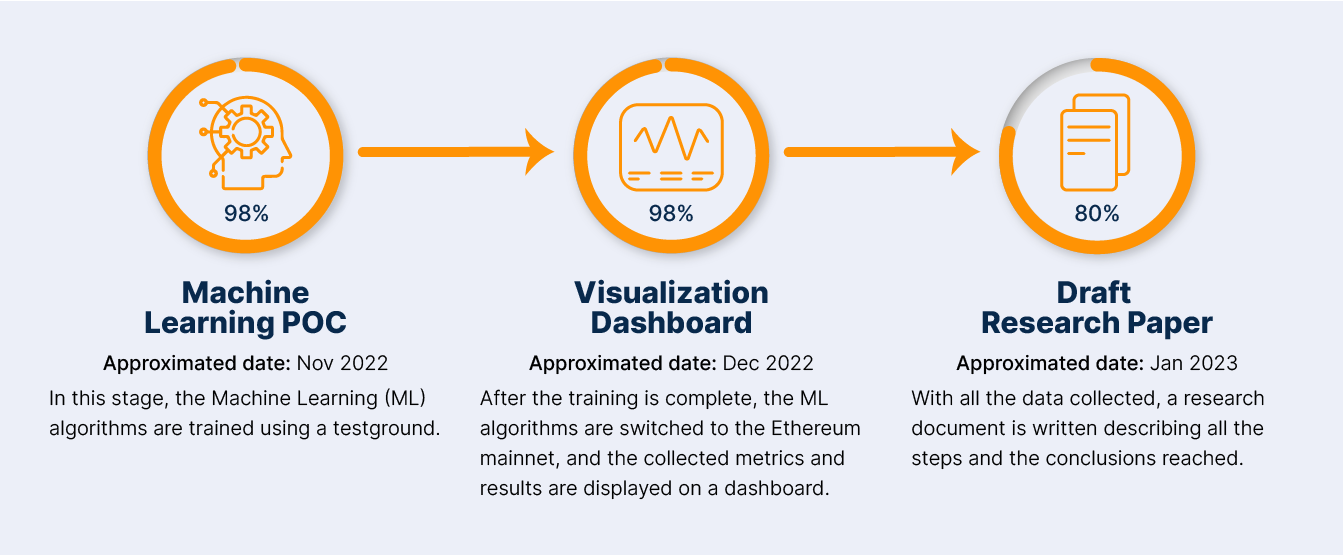
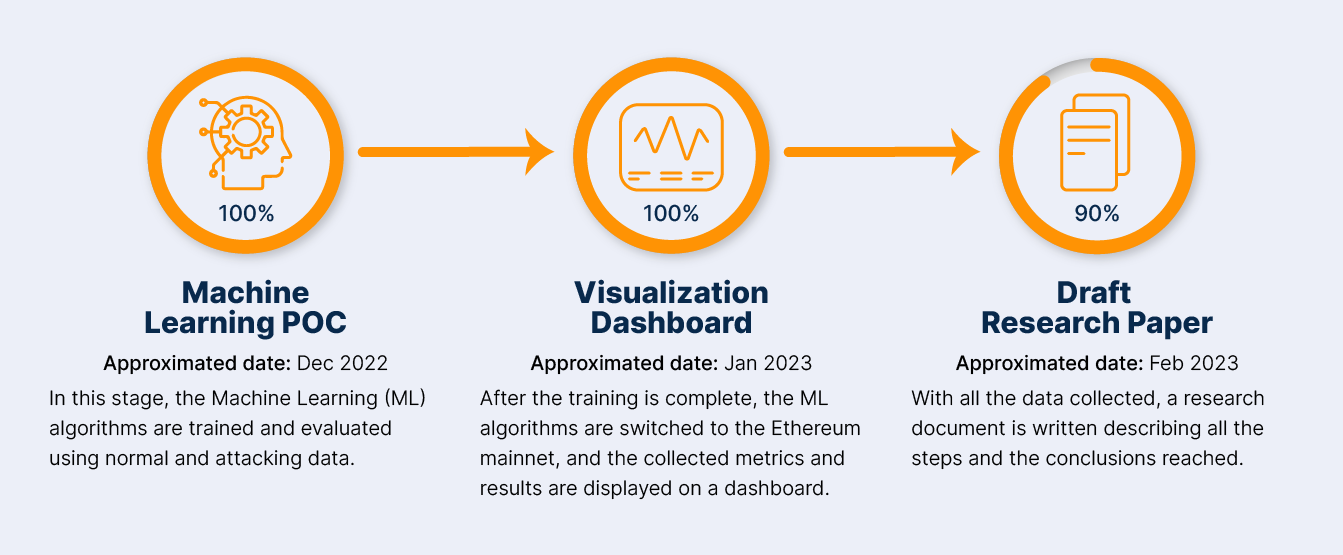
Add final blog for Tikuna

diff --git a/docs/src/css/custom.css b/docs/src/css/custom.css
@@ -45,6 +45,9 @@
   --ifm-logo: url("/img/tikuna-light-logo.png") !important;
   --ifm-linkedin-icon: url("/img/icon-link-light.png");
   --ifm-roadmap: url("/img/roadmap.webp") !important;
+  --ifm-dashboardEclipseAttacks: url("/img/dashboardEclipseAttacks.png") !important;
+  --ifm-dashboardBeacoNode: url("/img/dashboardBeacoNode.png") !important;
+  --ifm-dashboardp2pstatus: url("/img/dashboardp2pstatus.png") !important;
   --ifm-menu-color-background-active: #e2e7f0;
   --docsearch-modal-background: #e2e7f096 !important;
   --docsearch-highlight-color: #051d38 !important;
@@ -83,6 +86,7 @@
   --ifm-logo-hero: url("/img/tikuna-white-logo.png") !important;
   --ifm-logo: url("/img/tikuna-dark-logo.png") !important;
   --ifm-roadmap: url("/img/roadmap-dark.webp") !important;
+  --ifm-training-blog: url("/img/trainingBlogImage.png") !important;
   --logo-sakundi: url("/img/sakundi-logo.webp");
   --logo-edenia: url("/img/edenia-light-logo.png");
   --ifm-linkedin-icon: url("/img/icon-link.png");
@@ -272,6 +276,51 @@ hr {
   background-repeat: no-repeat;
   background-size: contain;
   min-height: 555px;
+  max-width: 1343px;
+  margin-top: 2rem !important;
+}
+
+.roadmapImageBlog {
+  background-image: var(--ifm-roadmap);
+  background-repeat: no-repeat;
+  background-size: contain;
+  min-height: 270px;
+  max-width: 1343px;
+  margin-top: 2rem !important;
+}
+
+.trainingImageBlog {
+  background-image: var(--ifm-training-blog);
+  background-repeat: no-repeat;
+  background-size: contain;
+  min-height: 300px;
+  max-width: 1343px;
+  margin-top: 2rem !important;
+}
+
+.dashboardp2pstatus {
+  background-image: var(--ifm-dashboardp2pstatus);
+  background-repeat: no-repeat;
+  background-size: contain;
+  min-height: 350px;
+  max-width: 1343px;
+  margin-top: 2rem !important;
+}
+
+.dashboardBeacoNode {
+  background-image: var(--ifm-dashboardBeacoNode);
+  background-repeat: no-repeat;
+  background-size: contain;
+  min-height: 320px;
+  max-width: 1343px;
+  margin-top: 2rem !important;
+}
+
+.dashboardEclipseAttacks {
+  background-image: var(--ifm-dashboardEclipseAttacks);
+  background-repeat: no-repeat;
+  background-size: contain;
+  min-height: 160px;
   max-width: 1343px;
   margin-top: 2rem !important;
 }

diff --git a/docs/i18n/es/docusaurus-plugin-content-blog/2023-03-17-tikuna-final-blogpost-fase1.md b/docs/i18n/es/docusaurus-plugin-content-blog/2023-03-17-tikuna-final-blogpost-fase1.md
@@ -1,0 +1,97 @@
+---
+slug: tikuna-final-blogpost-fase1
+title: "Anunciando la Entrega de Nuestro Proyecto Tikuna en la Fase de Prueba de Concepto"
+authors: [andres, francis, loui]
+---
+---
+¡Estamos encantados de anunciar la finalización de la primera fase de nuestro proyecto Tikuna! Después de meses de arduo trabajo, dedicación y colaboración, nos complace compartir los resultados de la primera ronda de la beca de investigación académica de la Fundación Ethereum (EF). Destacaremos los hitos de nuestro proyecto y examinaremos los hallazgos de nuestro equipo en este blog.
+
+## Descripción General
+
+La seguridad en blockchain se está volviendo cada vez más relevante en el ciberespacio actual y por eso es importante fortalecer la seguridad de cada capa de su arquitectura. Nuestro proyecto se centra en las capas más bajas del blockchain, en particular en la red P2P que permite que los nodos se comuniquen entre sí y compartan información. Esta capa es de vital importancia para cualquier blockchain, incluido Ethereum, debido a la naturaleza descentralizada de su arquitectura. No obstante, la capa de red P2P puede ser vulnerable a varios ataques, como una Denegación de Servicio Distribuida (DDoS), ataques de eclipse y ataques Sybil. En conclusión, esta capa es propensa a muchas amenazas heredadas de las redes P2P, y existe la necesidad de analizarlas y comprenderlas recopilando datos y extrayendo información del comportamiento de la red para reducir los riesgos asociados a estos ataques. Nosotros presentamos Tikuna, una herramienta de código abierto para monitorear y detectar posibles ataques a la red blockchain de Ethereum, en una etapa temprana del ataque. Tikuna usa un método de memoria a corto plazo no supervisado (LSTM por sus siglas en inglés), basado en redes neuronales recurrentes (RRN) para la detección de anomalías asociadas a posibles ataques en la red P2P. Los resultados empíricos obtenidos, indican que el algoritmo propuesto mejora significativamente el rendimiento de detección de ataques, con la capacidad de encontrarlos y clasificarlos, incluyendo ataques Eclipse, ataques Covert Flash y de otro tipo dirigidos a la capa P2P del blockchain Ethereum, con alta precisión.
+
+Nuestro proyecto tenía como objetivo implementar Tikuna, una Prueba de Concepto, para un sistema de monitoreo de seguridad, del blockchain Ethereum. Con Tikuna nuestro objetivo era mejorar la visibilidad del estado de la red P2P. El proyecto se compone de tres entregables:
+
+1. Desarrollo de una solución de monitoreo P2P de código abierto accesible para la comunidad de EF.
+2. Creación de dashboards para visualizar diferentes aspectos de monitoreo de la red P2P.
+3. El borrador de un paper de investigación para presentar los hallazgos científicos de nuestro proyecto Tikuna.
+
+Tikuna, el primer proyecto en América Latina en obtener fondos de investigación académica de la Fundación Ethereum, ha creado una estrategia novedosa para aumentar la conciencia sobre el estado de seguridad de la red P2P. Estamos orgullosos de contribuir al avance de la seguridad del blockchain y mejorar la seguridad del blockchain de Ethereum. Para obtener más información sobre Tikuna, [visite nuestro sitio web](https://tikuna.io) [[19]](/docs/research/references).
+
+### Roadmap de la Fase I
+
+<div className="roadmapImageBlog"></div>
+
+## Hallazgos significativos
+
+Presentamos tres contribuciones principales:
+
+* Nuestro algoritmo propuesto de detección de anomalías de aprendizaje automático, puede detectar varios ataques en la capa P2P de Ethereum utilizando datos de seguimiento de eventos de nodos en un entorno de simulación.
+
+* Demostramos cómo detectar ataques de eclipse en un nodo en la red principal mediante la extracción de datos de registro de conexión generados de forma personalizada del cliente Ethereum Prysm y el uso de una red neuronal LSTM.
+
+* Desarrollamos un exploit personalizado que implementa un ataque de eclipse en el mundo real. Se probó con un cliente Prysm modificado en la red principal, por lo que no reenvía spam a la red. Con esto, podríamos probar la efectividad de nuestro algoritmo.
+
+El paso inicial de nuestro equipo fue realizar una investigación y un análisis en profundidad para obtener una comprensión completa de los diversos algoritmos de seguridad P2P existentes, es decir, el estado del arte. En base a esto, desarrollamos un plan de acción integral que describe nuestro algoritmo y metodología en el proyecto Tikuna.
+
+Posteriormente, procedimos a implementar un algoritmo basado en LSTM para el monitoreo de la seguridad y la detección de anomalías de la red blockchain de Ethereum. Además, nuestro equipo desarrolló e implementó tres dashboards destinados a mejorar la seguridad de la red P2P. Estos dashboards son: el de estado de la red P2P de Ethereum, el dashboard para el monitoreo de nodos Beacon y el dashboard de ataques de Eclipse, los cuales describiremos más adelante.
+
+Finalmente, a lo largo del proceso de desarrollo, probamos rigurosamente nuestro algoritmo para asegurarnos de que fuera funcional. También llevamos a cabo varios experimentos en dos entornos de red distintos: el ambiente de pruebas simulado y la red principal de Ethereum, para evaluar minuciosamente la eficacia y el rendimiento del algoritmo de Tikuna.
+
+La siguiente es una muestra de los datos de entrenamiento utilizados para Tikuna en la red principal de Ethereum, que consta de datos de conexión de descubrimiento (UDP) de nodos atacantes normales y nodos atacantes simulados. Los datos normales se recopilaron de varios nodos durante 3 días en funcionamiento normal, y los datos maliciosos se recopilaron de un solo nodo Ethereum víctima del atacado simulado, utilizando nuestro exploit. Cada línea tiene varias funciones de entrada, incluida la marca de tiempo, la IP y el puerto eliminados de la tabla de nodos, la IP y el puerto agregados a la tabla de nodos y el bucket donde se agrega el nodo.
+
+<div className="trainingImageBlog"></div>
+
+### El model y las simulaciones
+
+Nosotros hemos utilizado RNN's para nuestra investigación. Son un tipo de modelo frecuentemente utilizado para procesar datos secuenciales como series de tiempo. Estos modelos están especializados en procesar una secuencia de valores en función del tiempo. Los RNN's pueden escalar a largas secuencias que no serían prácticas para redes sin especialización basada en secuencias. La mayoría de las redes recurrentes también pueden procesar secuencias de longitud variable.
+
+Uno de estos modelos es de especial interés para nuestra investigación. El modelo de memoria a corto plazo largo (LSTM) utiliza un mecanismo de puerta para garantizar la propagación adecuada de la información a través de muchas iteraciones en el tiempo. Las redes LSTM tienen una celda de memoria específica y pueden capturar dependencias a largo plazo en datos secuenciales. LSTM son herramientas valiosas para problemas de modelado de lenguaje. Las redes LSTM son una versión de las redes neuronales recurrentes útiles para largas secuencias de datos interrelacionadas. LSTM fue elegido en esta investigación para la detección de anomalías para encontrar conexiones maliciosas en la comunicación con otros nodos de un cliente de Ethereum.
+
+A continuación se muestra un ejemplo de la salida del modelo de ML para la red principal donde obtuvimos los mejores resultados detectando ataques de eclipse, con 1’000,000 de líneas de registro de conexión normales para entrenamiento y alrededor de 3,000 líneas de registros de ataques de eclipse para su evaluación:
+
+```bash
+2023-03-06 18:52:07,641 P7 INFO Epoch 84/100, training loss: 1.98741
+2023-03-06 18:52:07,661 P7 INFO Evaluating test data.
+2023-03-06 18:52:18,910 P7 INFO Finish inference. Show iteration top-k results:
+2023-03-06 18:52:19,272 P7 INFO {'f1': '0.847', 'Recall': '0.883', 'Precision': '0.813', 'Accuracy': '0.866'}
+2023-03-06 18:52:19,284 P7 INFO {'f1': '0.804', 'Recall': '0.757', 'Precision': '0.858', 'Accuracy': '0.846'}
+2023-03-06 18:52:19,296 P7 INFO {'f1': '0.740', 'Recall': '0.645', 'Precision': '0.868', 'Accuracy': '0.811'}
+2023-03-06 18:52:19,308 P7 INFO {'f1': '0.704', 'Recall': '0.588', 'Precision': '0.879', 'Accuracy': '0.794'}
+2023-03-06 18:52:19,320 P7 INFO {'f1': '0.683', 'Recall': '0.554', 'Precision': '0.889', 'Accuracy': '0.785'}
+```
+
+Nostros utilizamos métricas de medidas estándar para la detección de intrusiones con ML, como f1, recuperación, precisión y exactitud. Revise el repositorio de Github y esté atento a la publicación de nuestro borrador del paper de investigación si desea obtener más detalles.
+
+## Dashboards
+
+Como parte de nuestra investigación, nuestro equipo consideró importante mostrar los resultados obtenidos, así como una posible implementación. Para lograr esto, creamos tres dashboards de Grafana que están integrados con Prometheus. Estos dashboards capturan métricas de monitoreo y muestran el comportamiento de la red P2P, el vecindario y el nodo Prysm en tiempo real.
+
+* **Estado de la red P2P Ethereum:** La información que se muestra en el dashboard del estado de la red P2P Ethereum proviene de nuestro nodo Prysm y se obtiene al monitorear el puerto 8080. Brinda datos sobre el vecindario de nuestro nodo y cómo este interactúa con los otros nodos del Blockchain. Este muestra la cantidad de pares conectados, el socket actual y el principal, los diversos tipos de bibliotecas P2P que están conectados a nuestro nodo junto con sus calificaciones, así como información sobre la tasa de participación y la vitalidad de la red P2P. Además de esto, brinda información sobre los nodos validadores, como su número total, el estado de sus cuentas y la cantidad promedio de ether en sus saldos.
+
+<div className="dashboardp2pstatus"></div>
+<p align="center">Img. 1 El dashboard del estado de la red P2P Ethereum</p>
+
+* **Beacon Node Monitor:**  Este dashboard está relacionado a la infraestructura de nuestro nodo de consenso Prysm, muestra información como el uso de CPU, RAM, espacio en disco, consumo de ancho de banda y detalles sobre el comportamiento de los discos. Esta información se recuperó del clúster de Kubernetes que sirve como host para nuestro nodo de consenso, donde reside actualmente.
+
+<div className="dashboardBeacoNode"></div>
+<p align="center">Img. 2 El dashboard de monitoreo del nodo Beacon</p>
+
+* **Eclipse Attacks Dashboard:** La creación del tablero final requirió el desarrollo de una interfaz que pudiera registrar los posibles ataques de eclipse descubiertos por nuestro algoritmo de aprendizaje automático y luego ingresar esos registros en el componente AlertManager de Prometheus. Después de eso, Grafana crea una tabla que muestra una fila para cada ataque de eclipse identificado en un nodo determinado.
+
+<div className="dashboardEclipseAttacks"></div>
+<p align="center">Img. 3 El dashboard de ataques de eclipse</p>
+
+En Tikuna, creemos que hacer una red P2P más segura y confiable requiere accesibilidad y transparencia, por lo que hemos desarrollado una sección de usuario integral para nuestra prueba de concepto. Nuestra sección de usuario ofrece instrucciones detalladas y tutoriales que guían a los usuarios de todos los niveles técnicos a través del proceso de instalación y explican cómo interpretar la información presentada en los dashboards. Con Tikuna, una audiencia más amplia puede beneficiarse de nuestro sistema de monitoreo P2P. Estamos orgullosos de contribuir al avance de la seguridad de blockchain a través de nuestras ideas innovadoras y compromiso con soluciones fáciles de usar. Para obtener más información sobre Tikuna y cómo usar nuestro sistema de monitoreo, [visite nuestro sitio web](https://tikuna.io) [[19]](/docs/research/references) y navegue a través de nuestra sección de usuario.
+
+## El borrador del paper de investigación
+
+Actualmente estamos trabajando en un borrador de un paper de investigación que se basa en los hallazgos y resultados obtenidos durante nuestra investigación. Está previsto que el paper sea enviado a la Conferencia Internacional sobre Criptografía aplicada y seguridad de redes [[18]](/docs/research/references) en Kioto, Japan en Junio 19-22, 2023. The paper de investigación está organizado en cinco capítulos principales.
+El primer capítulo es una introducción a la cadena de bloques de Ethereum, que enfatiza la importancia de comprender los riesgos asociados con las redes P2P de Blockchain y desarrollar soluciones centradas en la seguridad para garantizar su confiabilidad. También destaca las tres contribuciones principales del proyecto, que incluyen el algoritmo de aprendizaje automático propuesto para detectar ataques en la capa P2P, un método para detectar ataques de eclipse utilizando datos de registro de conexión generados de forma personalizada y redes neuronales LSTM, y un exploit personalizado para ejecutar ataques de eclipse. El segundo capítulo, titulado "Trabajos relacionados", ofrece una descripción general de los trabajos más recientes que abordan los desafíos de seguridad de las redes P2P de blockchain de Ethereum. El tercer capítulo presenta el algoritmo de Tikuna describiendo cada uno de los tres pasos y discutiendo los diversos tipos de ataques a la red P2P de blockchain. El cuarto capítulo evalúa la efectividad del algoritmo de Tikuna utilizando un conjunto de datos de simulación y de conexión a la red principal. El último capítulo presenta un resumen del trabajo propuesto, las conclusiones y las posibles direcciones futuras de investigación. Finalmente, los autores reconocen que el trabajo presentado fue apoyado por las becas de investigación del EF.
+
+## Siguientes pasos
+
+Nos enorgullecemos enormemente de los logros de nuestro equipo y extendemos nuestra gratitud a todos los que contribuyeron a garantizar el éxito del proyecto. La experiencia, la dedicación y el espíritu colaborativo de nuestro equipo fueron cruciales para entregar la primera fase del proyecto Tikuna.
+Este es solo el comienzo de nuestro proyecto, ya que nuestro objetivo es desarrollar Tikuna como una herramienta para contribuir a la comunidad Ethereum y otras Blockchains. Nuestros esfuerzos se centrarán en identificar ataques adicionales, minimizar los falsos positivos, detectar incidentes del mundo real e incorporar diferentes clientes de nodos de Blockchain (incluido Ethereum). Además, tenemos la intención de investigar otras áreas donde se puede utilizar Tikuna, como el valor máximo extraíble (MEV).
+
+**Hemos solicitado la segunda ronda de las becas de investigación académicas del EF. Consulte nuestra aplicación [aquí](https://docs.google.com/document/d/1CwbYBc0wa0eMh9erJv1lYXKrHHT5RlFGphr5PiV7yZ8/edit). Si está interesado en aprender más sobre Tikuna o trabajar con nosotros, agradecemos la oportunidad de colaborar con usted. Comuníquese con nosotros y estaremos encantados de saber de usted.**

diff --git a/docs/blog/2023-03-17-tikuna-final-blogpost-fase1.md b/docs/blog/2023-03-17-tikuna-final-blogpost-fase1.md
@@ -1,0 +1,97 @@
+---
+slug: tikuna-final-blogpost-fase1
+title: "Marking the Delivery of our Tikuna Project Proof-Of-Concept Phase"
+authors: [andres, francis, loui]
+---
+---
+We are thrilled to announce the completion of the first phase of our Tikuna project! After months of hard work, dedication, and collaboration, we are excited to share the results of the first round of the Ethereum Foundation (EF) academic research grant. We will highlight our project's milestones and examine our team's findings in this blog post.
+
+## Overview
+
+Blockchain security is becoming increasingly relevant in today's cyberspace, and it is essential to strengthening each layer's security in its architecture. Our project focuses on the lowest level layer in the blockchain, particularly the P2P network that allows the nodes to communicate with each other and share information. This layer is a vital component of any blockchain, including Ethereum, due to the decentralized nature of its architecture. However, the P2P network layer may be vulnerable to several attacks, such as a Distributed Denial of Service (DDoS), eclipse attacks, or Sybil attacks. Consequently, this layer is still prone to many threats inherited from P2P networks, and there is a need to analyze and understand them by collecting data and extracting insights from the network behavior to reduce those risks. We introduce Tikuna, an open-source tool for monitoring and detecting potential attacks on the Ethereum blockchain network at an early stage. Tikuna employs an unsupervised Long Short-Term Memory (LSTM) method based on Recurrent Neural Networks (RNNs) for anomaly detection to find attacks on the P2P layer. Empirical results indicate that the proposed approach significantly improves detection performance, with the ability to detect and classify attacks, including Eclipse attacks, Covert Flash attacks, and others that target the Ethereum blockchain P2P network layer, with high accuracy.
+
+Our project aimed to implement Tikuna, a proof-of-concept P2P network security monitoring system for the Ethereum blockchain. With Tikuna, we aim to enhance the visibility of the status of the P2P network. The project is composed of three primary deliverables as follows:
+
+1. Development of an open-source P2P monitoring solution accessible to the EF community.
+2. Creation of dashboards to visualize different monitoring aspects of the P2P network.
+3. A draft research paper to present the scientific findings of our Tikuna approach.
+
+Tikuna, the first project in Latin America to get academic research funding from the Ethereum Foundation, has created a novel strategy to increase awareness of the P2P network's security state. We are proud to contribute to advancing blockchain safety and enhancing the Ethereum blockchain's security. To learn more about Tikuna, [visit our website](https://tikuna.io) [[19]](/docs/research/references).
+
+### I Phase roadmap
+
+<div className="roadmapImageBlog"></div>
+
+## Meaningful findings
+
+We introduce three main contributions:
+
+* Our proposed machine learning anomaly detection approach can detect several attacks at the Ethereum P2P layer using peer event trace data in a simulation environment using the protocol labs’ framework testground.
+
+* We demonstrate how to detect eclipse attacks in a mainnet node by extracting custom-generated connection log data from the Ethereum client Prysm and utilizing an LSTM neural network.
+
+* We developed a custom exploit implementing a real-world eclipse attack. It was tested against a modified Prysm client in mainnet, so it did not forward spam to the network. With this, we could test the effectiveness of our approach.
+
+Our team's initial step was to conduct in-depth research and analysis to gain a thorough understanding of the various existing P2P security approaches, i.e., state of the art techniques. Based on this, we developed a comprehensive plan of action outlining our Tikuna approach and methodology.
+
+Subsequently, we proceeded to implement an LSTM based approach for Ethereum blockchain network security monitoring and anomaly detection. Additionally, our team developed and implemented three dashboards aimed at enhancing P2P security. These dashboards are the Ethereum P2P Network Status dashboard, the Beacon Node Monitor, and the Eclipse Attacks Dashboard.
+
+Finally, throughout the development process, we rigorously tested our approach to ensure that it was functional. We also conducted several experiments in two distinct network environments, i.e., the simulated testground and the Ethereum mainnet, to thoroughly evaluate the effectiveness as well as the performance of the Tikuna approach.
+
+The following is a sample of the training data used for Tikuna in the Ethereum mainnet, consisting of discovery connection data (UDP) from honest and simulated attacking peers. The normal data was collected from several nodes during 3 days under regular operation, and the malicious data was gathered from a single victim Ethereum node, using our developed exploit. Each line has several input features, including timestamp, IP, and Port removed from the peer table, IP and Port added to the peer table, and bucket where the peer is added.
+
+<div className="trainingImageBlog"></div>
+
+### The model and simulations
+
+We have used RNNs for our research.  They are a type of model frequently utilized for processing sequential data such as time series. These models are specialized for processing a sequence of values that are a function of time. RNNs can scale to long sequences that would not be practical for networks without sequence-based specialization. Most recurrent networks can also process sequences of variable length. 
+
+One of these models is especially of interest to this research. The long short-term memory model (LSTM) uses a gating mechanism to ensure proper information propagation through many time steps. LSTM networks have a specific memory cell and can capture long-term dependencies in sequential data. LSTM are valuable tools for language modeling problems. LSTM networks are a version of recurrent neural networks useful for long interrelated sequences of data. LSTM was chosen in this research for anomaly detection to find malicious discovery connections to an Ethereum client.
+
+Following there is an example of the ML model output for mainnet where we obtained the best results detecting eclipse attacks, with 1’000,000 regular connection log lines for training and around 3,000 lines of eclipse attack logs for evaluation:
+
+```bash
+2023-03-06 18:52:07,641 P7 INFO Epoch 84/100, training loss: 1.98741
+2023-03-06 18:52:07,661 P7 INFO Evaluating test data.
+2023-03-06 18:52:18,910 P7 INFO Finish inference. Show iteration top-k results:
+2023-03-06 18:52:19,272 P7 INFO {'f1': '0.847', 'Recall': '0.883', 'Precision': '0.813', 'Accuracy': '0.866'}
+2023-03-06 18:52:19,284 P7 INFO {'f1': '0.804', 'Recall': '0.757', 'Precision': '0.858', 'Accuracy': '0.846'}
+2023-03-06 18:52:19,296 P7 INFO {'f1': '0.740', 'Recall': '0.645', 'Precision': '0.868', 'Accuracy': '0.811'}
+2023-03-06 18:52:19,308 P7 INFO {'f1': '0.704', 'Recall': '0.588', 'Precision': '0.879', 'Accuracy': '0.794'}
+2023-03-06 18:52:19,320 P7 INFO {'f1': '0.683', 'Recall': '0.554', 'Precision': '0.889', 'Accuracy': '0.785'}
+```
+
+We used standard measures metrics for intrusion detection with ML, such as f1, recall, precision, and accuracy. Please review the Github repository and stay tuned for our research paper publication if you want more details.
+
+## Dashboards
+
+As part of our research, our team considered it important to demonstrate the results we obtained as well as a possible implementation. To achieve this, we created three Grafana dashboards that are integrated with Prometheus. These dashboards capture monitoring metrics and display the behavior of the P2P network, neighborhood, and Prysm node in real-time.
+
+* **Ethereum P2P Network Status:** The information that is displayed on the Ethereum P2P Network Status dashboard comes from our Prysm node and is obtained by monitoring the port 8080. It gives data on the neighborhood area as well as how this node interacts with the other nodes in the blockchain. This comprises the number of connected peers, the current and head slot, the various types of P2P libraries that are linked to our node together with their ratings, as well as information on the participation rate and network liveness of the P2P network. In addition to this, it provides information concerning validators, such as their total numbers, the status of their accounts, and the average amount of ether in their balances.
+
+<div className="dashboardp2pstatus"></div>
+<p align="center">Fig. 1 The Ethereum P2P network status dashboard</p>
+
+* **Beacon Node Monitor:**  This dashboard belongs to the infrastructure of our own Ethereum node, which displays information such as the use of CPU, RAM, disk space, bandwidth within the network, and details about storage space. This information was retrieved from the Kubernetes cluster that serves as the host for the consensus node, which is the infrastructure in our particular instance.
+
+<div className="dashboardBeacoNode"></div>
+<p align="center">Fig. 2 The beacon node monitor dashboard</p>
+
+* **Eclipse Attacks Dashboard:** The creation of the final dashboard required the development of an interface that could record the potential eclipse attacks discovered by our machine learning algorithm and then input those records into the AlertManager component of Prometheus. After that, Grafana creates a table that displays a row for each identified eclipse attack in a given node.
+
+<div className="dashboardEclipseAttacks"></div>
+<p align="center">Fig. 3 The eclipse attacks dashboard</p>
+
+At Tikuna, we believe that making a more secure and reliable P2P network requires accessibility and transparency, which is why we have developed a comprehensive User section for our proof-of-concept. Our User section offers detailed instructions and tutorials that guide users of all technical levels through the installation process and explain how to interpret the information presented in the dashboards. With Tikuna, a wider audience can benefit from our P2P monitoring system. We are proud to contribute to advancing blockchain security through our innovative ideas and commitment to user-friendly solutions. To learn more about Tikuna and how to use our monitoring system, [visit our website](https://tikuna.io) [[19]](/docs/research/references) and browse through our User section.
+
+## The research paper
+
+We are currently working on a draft research paper that is based on the findings and results obtained during this research grant. The paper is planned to be submitted to the International Conference on Applied Cryptography and Network Security [[18]](/docs/research/references) in Kyoto, Japan on June 19-22, 2023. The research paper is organized into five main chapters.
+The first chapter is an introduction to the Ethereum blockchain, which emphasizes the importance of understanding the risks associated with P2P blockchain networks and developing security-focused solutions to ensure their reliability. It also highlights the three main contributions of the paper, which include a proposed machine learning approach for detecting attacks in the P2P layer, a method for detecting eclipse attacks using custom-generated connection log data and LSTM neural networks, and a custom exploit for eclipse attack testing against a modified Prysm client in mainnet. The second chapter, titled "Related Work", provides an overview of the most recent works that address the security challenges of the Ethereum blockchain P2P networks. The third chapter introduces the Tikuna approach by describing each of the three steps and discussing the various types of blockchain P2P network attacks. The fourth chapter evaluates the effectiveness of the Tikuna approach using a simulation and mainnet connection dataset. The last chapter presents a summary of the proposed work, conclusions, and potential future research directions. Finally, the authors acknowledge that the work presented was supported by the Ethereum Foundation Academic Research Grants.
+
+## Next steps
+
+We take immense pride in our team's accomplishments, and we extend our gratitude to everyone who played a part in ensuring the project's success. Our team's expertise, dedication, and collaborative ethos were crucial to delivering the first phase of the Tikuna project.
+This is just the beginning of our project as we aim to further develop Tikuna as a tool to contribute to the Ethereum community and other Blockchains. Our efforts will be focused on identifying additional attacks, minimizing false positives, detecting real-world incidents, and incorporating different Blockchain (including Ethereum) node clients. Moreover, we intend to investigate other areas of research where Tikuna can be utilized, such as Maximal Extractable Value (MEV).
+
+**We have applied for the second round of the EF academic research grants. Please see our application [here](https://docs.google.com/document/d/1CwbYBc0wa0eMh9erJv1lYXKrHHT5RlFGphr5PiV7yZ8/edit). If you are interested in learning more about Tikuna or working with us, we welcome the opportunity to collaborate with you. Kindly reach out to us, and we'll be happy to hear from you.**

diff --git a/docs/docs/research/references.md b/docs/docs/research/references.md
@@ -26,3 +26,7 @@ https://docs.ethhub.io/ethereum roadmap/ethereum2.0/proof-of-stak
 - [15] Vyzovitis, D., Napora, Y., McCormick, D., Dias, D., & Psaras, Y. (2020). GossipSub: Attack-Resilient Message Propagation in the Filecoin and ETH2.0 Networks. arXiv. https://doi.org/10.48550/arXiv.2007.02754
 - [16] M. Cortes-Goicoechea and L. Bautista-Gomez, "Discovering the Ethereum2 P2P Network," 2021 Third International Conference on Blockchain Computing and Applications (BCCA), 2021, pp. 81-88, doi: 10.1109/BCCA53669.2021.9657041.
 - [17] Guangquan Xu, Bingjiang Guo, Chunhua Su, Xi Zheng, Kaitai Liang, Duncan S. Wong, Hao Wang, Am I eclipsed? A smart detector of eclipse attacks for Ethereum, Computers & Security, Volume 88, 2020,101604, ISSN 0167-4048, https://doi.org/10.1016/j.cose.2019.101604.
+- [18] https://sulab-sever.u-aizu.ac.jp/ACNS2023/call_workshops.html
+- [19] https://tikuna.io/
+- [20] https://edenia.com/ 
+- [21] https://sakundi.io/ 
